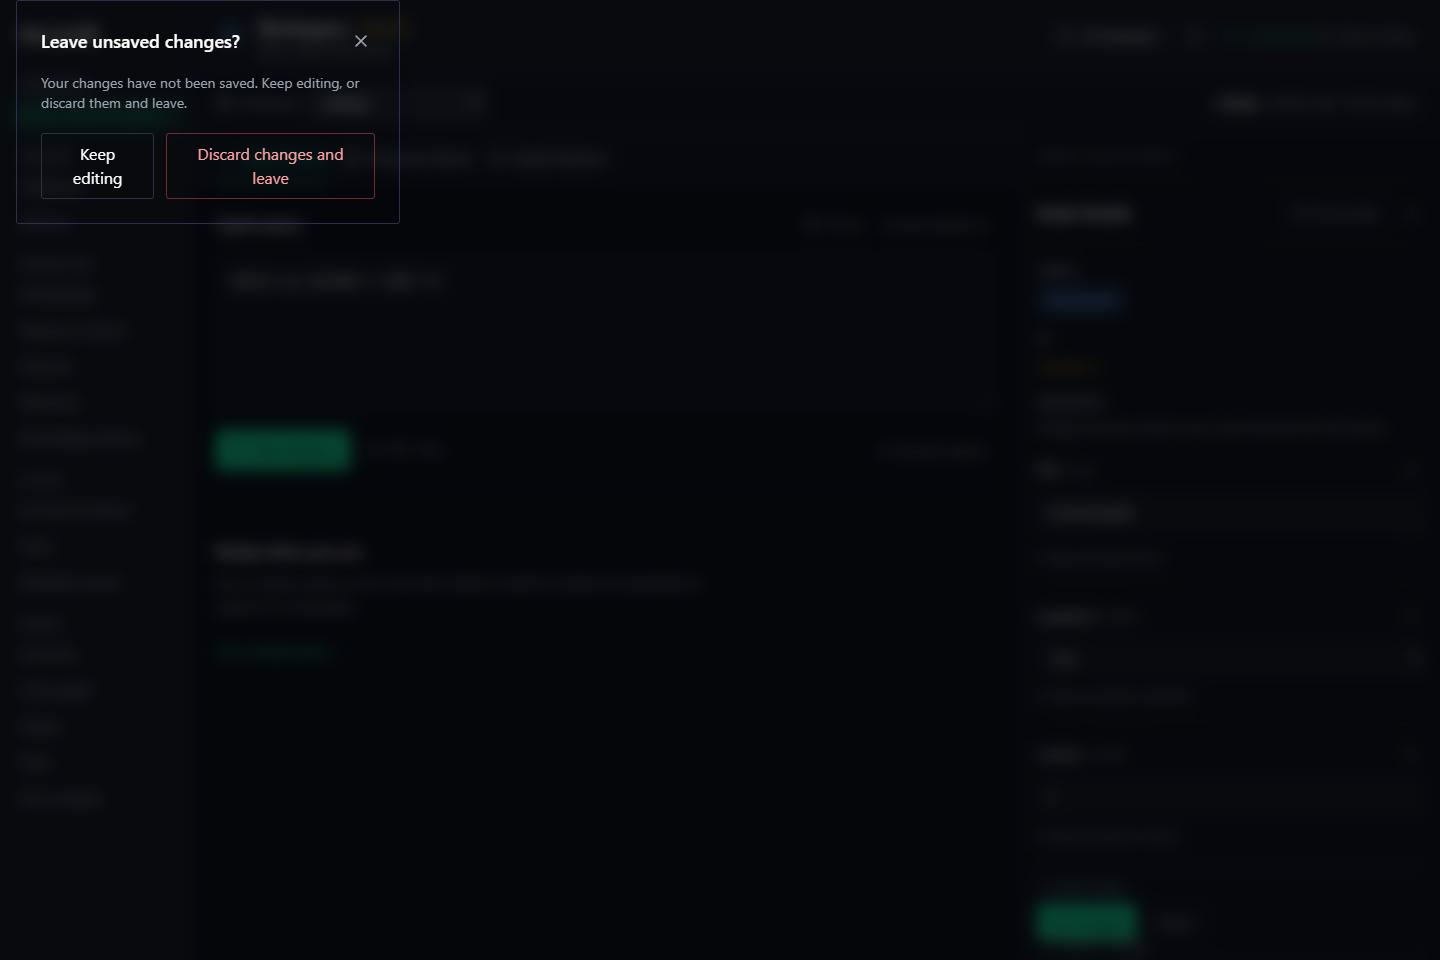
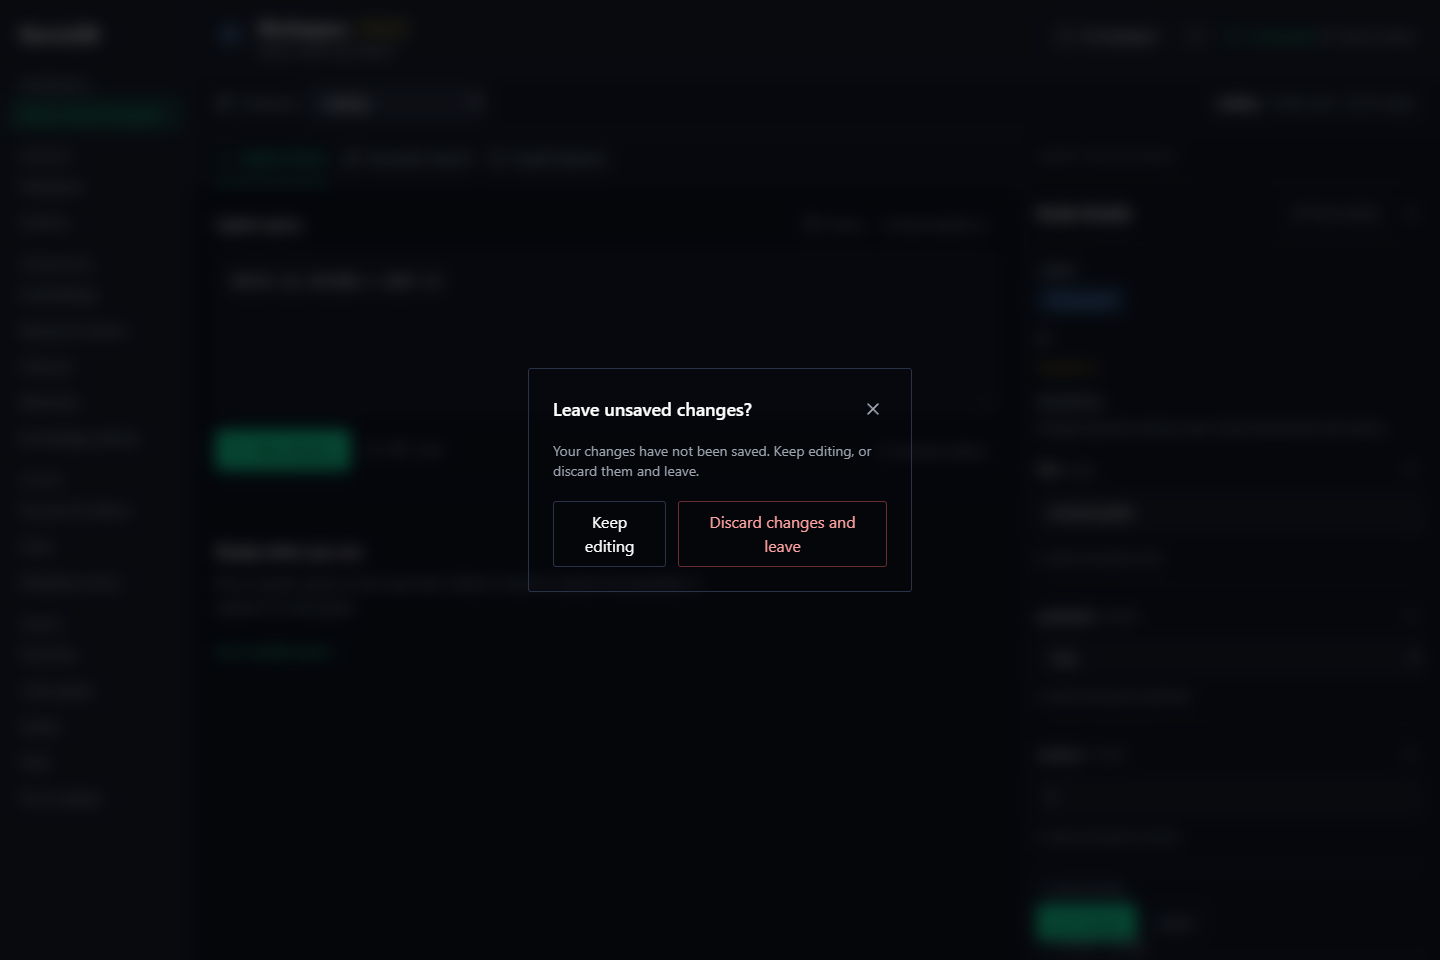
fix(ui): center shared dialogs within the viewport

diff --git a/ui/src/components/common/Modal.tsx b/ui/src/components/common/Modal.tsx
@@ -45,12 +45,12 @@ export function Modal({
     <dialog
       ref={dialog}
       onCancel={event=>{event.preventDefault();onCloseRef.current()}}
-      className="bg-transparent text-white p-0 max-w-none max-h-[90vh] backdrop:bg-black/60 backdrop:backdrop-blur-sm"
+      className={`fixed inset-0 m-auto w-[calc(100%-2rem)] ${sizeClasses[size]} bg-transparent text-white p-0 max-h-[90dvh] backdrop:bg-black/60 backdrop:backdrop-blur-sm`}
       aria-labelledby={title ? titleId : undefined}
     >
       {/* Modal Content */}
       <div
-        className={`relative bg-norse-deep border border-norse-rune rounded-xl p-6 ${sizeClasses[size]} mx-4 shadow-2xl w-full ${className}`}
+        className={`relative bg-norse-deep border border-norse-rune rounded-xl p-6 shadow-2xl w-full ${className}`}
         role="document"
       >
         {title && (

diff --git a/ui/review/workspace-layout.md b/ui/review/workspace-layout.md
@@ -108,3 +108,10 @@ Modal policy follows [NN/g's modal and nonmodal dialog guidance](https://www.nng
 ![Schema creation](prototype/18-create-constraint.png)
 ![Mobile query workspace](prototype/05-mobile-query.png)
 ![Mobile schema creation](prototype/19-mobile-schema-create.png)
+
+
+### Dialog positioning regression
+
+The shared native dialog explicitly uses viewport-fixed insets and automatic margins. Width limits belong to the dialog itself; its inner panel has no asymmetric horizontal margin. Geometry checks cover unsaved record, schema and database edits at desktop and mobile viewports, including safe initial focus and Escape preserving the draft. All six positioning cases and 15 related editing/operation checks passed (`npm run test:browser --prefix ui -- modal-position.spec.mjs workspace-editing-prototype.spec.mjs operations.spec.mjs --workers=1`).
+
+![Centered mobile unsaved-change dialog](prototype/22-mobile-unsaved-warning.png)
